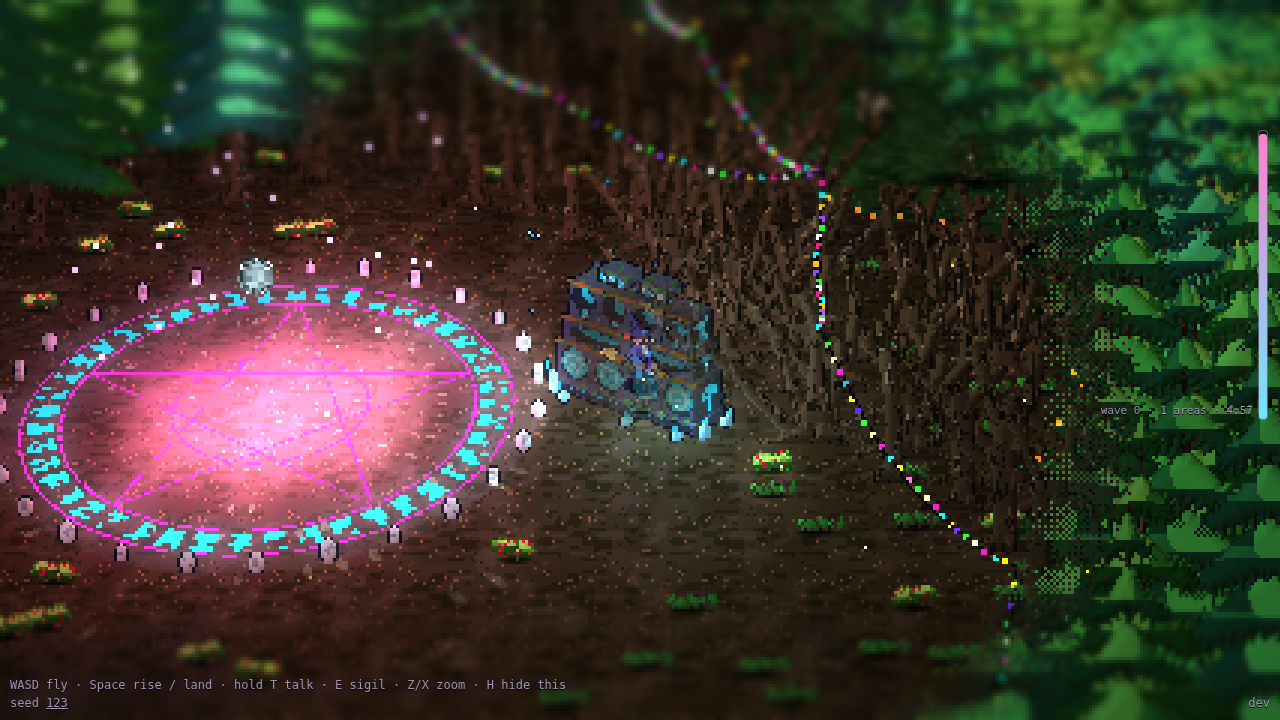
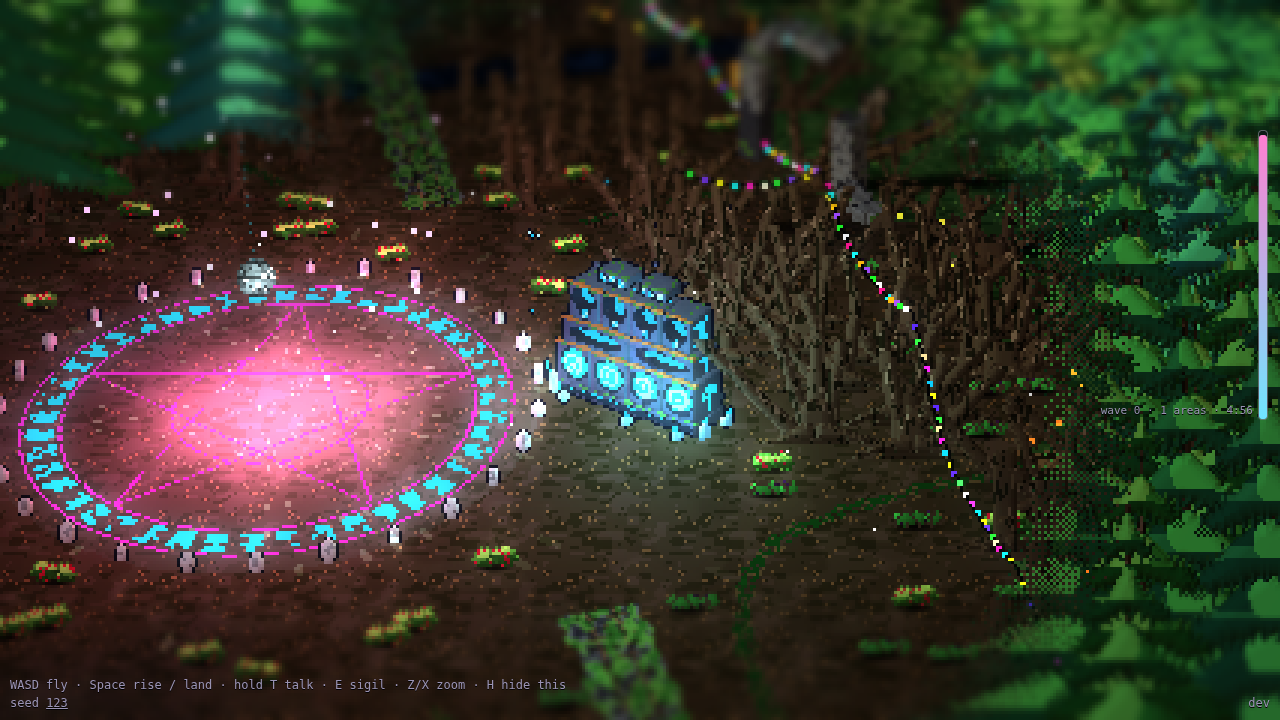
The treehouse by the dancefloor: the game starts with her sitting on its terrace (sit pose) till she moves or rises; its lantern and windows light the clearing; wall objects keep off paths; previews of paths, roads, railways and the treehouse
Claude-Session: https://claude.ai/code/session_01MR6jyHx6mcGYyfzATvhXK3

diff --git a/src/render/view.ts b/src/render/view.ts
@@ -46,6 +46,10 @@ export class View {
   private decorBatches = new Map<string, SpriteBatch>();
   private creatureBatches = new Map<string, SpriteBatch>();
   private witchBatch: SpriteBatch;
+  private treehouseBatch: SpriteBatch;
+  /** 1 while she sits on the treehouse terrace, easing to 0 as she takes off. */
+  private seatK = 1;
+  private seatTime = 0;
   private stoneBatch: SpriteBatch;
   private shadow: THREE.Mesh;
   private mpp: number; // metres per art pixel
@@ -124,6 +128,14 @@ export class View {
     this.witchBatch.mesh.renderOrder = 10;
     this.scene.add(...this.witchBatch.meshes);
     SPRITE_UNIFORMS.uOcc.value.set(O.fadeOpacity, O.edge, O.minHeight, O.on ? 1 : 0);
+    // The treehouse, home: its base and its crown (the crown only from the treetops), its trunk's
+    // foot on its spot. It fades like other tall things when she's behind it.
+    {
+      const T = this.assets.treehouse, f = T.atlas.frames, th = game.map.treehouse, x = th.x - (T.base.x - f[0].w / 2) * this.mpp;
+      this.treehouseBatch = new SpriteBatch(T.atlas, this.mpp, { fade: true });
+      this.treehouseBatch.set([{ x, y: 0, z: th.z, frame: f[0], flip: false }, { x, y: 0, z: th.z, frame: f[1], flip: false, top: true }]);
+      this.scene.add(...this.treehouseBatch.meshes);
+    }
     this.stoneBatch = new SpriteBatch(this.assets.stones, this.mpp, { fade: true });
     this.scene.add(...this.stoneBatch.meshes);
     const d = game.map.dancefloor, stones: SpriteInstance[] = [];
@@ -391,6 +403,7 @@ export class View {
       const b = this.batchFor(this.typeBatches, type, () => { const a = this.assets.typeArt(type); return a && new SpriteBatch(a.atlas, mpp, { scenery: true, fade: true }); });
       b?.set(list);
     }
+    { const th = g.map.treehouse; shadows.push({ x: th.x, z: th.z, w: 7, d: 3.5, scenery: false }); } // soft, under the treehouse
     this.checkPops("placed", !force);
     this.sources = g.forest.lightsNear(g.witch.x, g.witch.z, t.haze.far + margin);
     this.stats.trees = nt; this.stats.bushes = nb;
@@ -560,7 +573,16 @@ export class View {
     }
     this.strings.update();
     this.borders.update();
-    this.setLights([this.dancefloor.update(time, this.ground), ...party.lights, ...this.forestLights], w.x, w.z);
+    // A point on the treehouse's sprite (its pixels) in the world, standing on its spot.
+    const T = this.assets.treehouse, thf = T.atlas.frames[0], th = g.map.treehouse, U2 = SPRITE_UNIFORMS;
+    const onTreehouse = (px: number, py: number) => {
+      const r = U2.uRight.value, u = U2.uUp.value, dx = (px - T.base.x) * this.mpp, dy = (thf.h - py) * this.mpp;
+      return { x: th.x + r.x * dx + u.x * dy, y: r.y * dx + u.y * dy, z: th.z + r.z * dx + u.z * dy };
+    };
+    const thLights: ForestLight[] = T.lights.filter(l => l.kind === "lantern" || l.kind === "window").slice(0, 2).map(l => ({
+      ...onTreehouse(l.x, l.y), reach: t.treehouse.lightReach, rgb: new THREE.Vector3(l.rgb[0] / 255, l.rgb[1] / 255, l.rgb[2] / 255), strength: t.treehouse.lightStrength * (0.92 + 0.08 * Math.sin(time * 3 + l.x)),
+    }));
+    this.setLights([this.dancefloor.update(time, this.ground), ...party.lights, ...thLights, ...this.forestLights], w.x, w.z);
     LIGHT_UNIFORMS.uTime.value = time;
     this.mist?.follow(pose.tx, pose.tz);
     const bob = Math.sin(time * 2.4) * 0.12;
@@ -588,17 +610,29 @@ export class View {
       else wf = pick("stand", Math.floor(time * F.stand.fps) % F.stand[side].length);
     } else if (this.foot > 0.02) wf = this.foot >= prevFoot ? pick("land", Math.floor(this.foot * 3)) : pick("takeoff", Math.floor((1 - this.foot) * 3));
     const footEase = this.foot * this.foot * (3 - 2 * this.foot), wy = (h + bob - 0.4) * (1 - footEase);
-    const wframe = this.assets.witch.frames[wf], hatTop = wy + wframe.h * this.mpp;
-    this.witchBatch.set([{ x: w.x, y: wy, z: w.z, frame: wframe, flip: w.facing < 0 }]);
+    // At the start she sits on the treehouse terrace (the sit pose, swinging her legs), and eases
+    // off it into the air when she first moves.
+    const sdt = Math.min(0.1, Math.max(0, time - this.seatTime));
+    this.seatTime = time;
+    this.seatK = w.seated ? 1 : Math.max(0, this.seatK - sdt / 0.6);
+    let wx = w.x, wz = w.z, wyy = wy;
+    if (this.seatK > 0) {
+      const seat = onTreehouse(T.seat.x, T.seat.y), k = this.seatK * this.seatK * (3 - 2 * this.seatK);
+      const fwd = this.camera.getWorldDirection(this.v3);
+      wx += (seat.x - fwd.x * 0.6 - wx) * k; wyy += (seat.y - fwd.y * 0.6 - wyy) * k; wz += (seat.z - fwd.z * 0.6 - wz) * k;
+      if (w.seated) wf = F.sit.towards[Math.floor(time * F.sit.fps) % F.sit.towards.length];
+    }
+    const wframe = this.assets.witch.frames[wf], hatTop = wyy + wframe.h * this.mpp;
+    this.witchBatch.set([{ x: wx, y: wyy, z: wz, frame: wframe, flip: w.seated ? false : w.facing < 0 }]);
     // Where she is on screen (low-res pixels) and how far from the camera, for the occluder fade.
     {
       const px = (x: number, y: number, z: number) => { const p = this.v3.set(x, y, z).project(this.camera); return [(p.x + 1) / 2 * this.width, (p.y + 1) / 2 * this.height]; };
-      const base = px(w.x, wy, w.z), top = px(w.x, hatTop, w.z), side = px(w.x + wframe.w * this.mpp / 2, wy, w.z);
+      const base = px(wx, wyy, wz), top = px(wx, hatTop, wz), side = px(wx + wframe.w * this.mpp / 2, wyy, wz);
       SPRITE_UNIFORMS.uWitch.value.set((base[0] + top[0]) / 2, (base[1] + top[1]) / 2, Math.abs(side[0] - base[0]) + 1, Math.abs(top[1] - base[1]) / 2 + 1);
-      SPRITE_UNIFORMS.uWitchDepth.value = -this.v3.set(w.x, h, w.z).applyMatrix4(this.camera.matrixWorldInverse).z;
+      SPRITE_UNIFORMS.uWitchDepth.value = -this.v3.set(wx, this.seatK > 0 ? wyy : h, wz).applyMatrix4(this.camera.matrixWorldInverse).z;
     }
-    this.shadow.position.set(w.x, 0.03, w.z);
-    this.shadow.scale.setScalar(1 - 0.5 * canopyShown(w));
+    this.shadow.position.set(wx, 0.03, wz);
+    this.shadow.scale.setScalar((1 - 0.5 * canopyShown(w)) * (1 - this.seatK) + 1e-3); // none while she's up on the terrace
 
     this.refresh();
     this.drawCreatures(time);

diff --git a/src/render/assets.ts b/src/render/assets.ts
@@ -30,6 +30,9 @@ export class AssetLibrary {
   readonly props: Atlas;
   /** Soundsystems: variant x 3 + frame (the cones pumping), playing. */
   readonly soundsystems: Atlas;
+  /** The witch's treehouse: its base (frame 0) and top (frame 1, the crown: treetop mode), and
+   *  anchors in its sprite's pixels: the trunk's foot, her seat on the terrace, its lights. */
+  readonly treehouse: { atlas: Atlas; base: { x: number; y: number }; seat: { x: number; y: number }; lights: { x: number; y: number; rgb: number[]; kind: string }[] };
   /** Style scale: the lab's K, 2 / pixel size. */
   readonly K: number;
   /** Bumped whenever a new set is ready, so the view knows to refresh its batches. */
@@ -46,7 +49,7 @@ export class AssetLibrary {
       ...["rise", "descend"].flatMap(pose => ["towards", "away"].flatMap(facing => [0, 1].map(frame => wb({ pose, frame, facing })))));
     // On foot, from 16: standing, landing, taking off, talking, putting a sigil down, lifting one.
     const FOOT = Art.WITCH_FOOT_POSES as Record<string, { frames: number; fps: number }>;
-    for (const pose of ["stand", "land", "takeoff", "talk", "placeSigil", "liftSigil"]) {
+    for (const pose of ["stand", "land", "takeoff", "talk", "placeSigil", "liftSigil", "sit"]) {
       const n = FOOT[pose].frames, entry = { towards: [] as number[], away: [] as number[], fps: FOOT[pose].fps };
       for (const facing of ["towards", "away"] as const) for (let frame = 0; frame < n; frame++) { entry[facing].push(sprites.length); sprites.push(wb({ pose, frame, facing })); }
       this.witchFoot[pose] = entry;
@@ -58,6 +61,13 @@ export class AssetLibrary {
     const ss: Baked[] = [];
     for (let v = 0; v < 3; v++) for (let f = 0; f < 3; f++) ss.push(Art.bake(Art.soundsystemSprite(style, { variant: v, frame: f, state: "playing" }), Art.soundsystemColours(v), style, style.cOutline) as Baked);
     this.soundsystems = packAtlas(ss, 2048);
+    const th = Art.treehouseSprite(style) as { bot: unknown; top: unknown; anchors: { base: { x: number; y: number }; seat: { x: number; y: number }; lights: { x: number; y: number; rgb: number[]; kind: string }[] } };
+    const thc = Art.treehouseColours(style);
+    // Its model draws a hard dark shadow ellipse on the ground round the trunk's foot: drop it (a
+    // soft contact shadow goes there instead), as Ed asked for set pieces.
+    for (const sp of [th.bot, th.top] as { w: number; h: number; m: Uint8Array }[])
+      for (let y = Math.max(0, Math.floor(th.anchors.base.y - 14)); y < sp.h; y++) for (let x = 0; x < sp.w; x++) if (sp.m[y * sp.w + x] === Art.M.NOSE) sp.m[y * sp.w + x] = 0;
+    this.treehouse = { atlas: packAtlas([th.bot, th.top].map(sp => Art.bake(sp, thc, style, "none") as Baked), 2048), ...th.anchors };
     this.useWorkers = typeof Worker !== "undefined" && typeof OffscreenCanvas !== "undefined";
     if (this.useWorkers) {
       const n = Math.max(1, Math.min(3, (navigator.hardwareConcurrency || 2) - 1));

diff --git a/src/rules/rules.test.ts b/src/rules/rules.test.ts
@@ -166,13 +166,26 @@ describe("the map", () => {
     expect(used.size).toBeGreaterThanOrEqual(25);
   });
 
-  it("puts the dancefloor in the clearing of the middle area, where the witch starts", () => {
+  it("puts the dancefloor in the clearing of the middle area, the treehouse by it, where the witch starts", () => {
     const d = map.dancefloor, a = map.areaAt(d.x, d.z);
     expect(a.cell).toEqual(map.centreCell);
     expect(Math.abs(map.centreCell[0] - 10) + Math.abs(map.centreCell[1] - 10)).toBeLessThanOrEqual(2);
     expect(a.openness).toBeLessThan(0.05);
     expect(map.treeWeight(d.x, d.z)).toBe(0);
-    expect(Math.hypot(map.start.x - d.x, map.start.z - d.z)).toBeLessThan(d.radius);
+    const th = map.treehouse, far = Math.hypot(th.x - d.x, th.z - d.z);
+    expect(far).toBeGreaterThan(d.radius + TUNING.dancefloor.clearing);
+    expect(far).toBeLessThan(d.radius + TUNING.dancefloor.clearing + 20);
+    expect(map.hardClear(th.x, th.z)).toBe(true);
+    expect(Math.hypot(map.start.x - th.x, map.start.z - th.z)).toBeLessThan(3);
+  });
+  it("starts the witch seated on the terrace; she stays put till the first move or rise", () => {
+    const g = newGame(5, TUNING);
+    expect(g.witch.seated).toBe(true);
+    const still = stepWitch(g.witch, NO_INTENT, 1, TUNING, map.bounds);
+    expect(still.seated).toBe(true);
+    const off = stepWitch(g.witch, { ...NO_INTENT, moveX: 1 }, 0.1, TUNING, map.bounds);
+    expect(off.seated).toBeFalsy();
+    expect(off.x).toBeGreaterThan(g.witch.x);
   });
 
   it("reads seeds from the URL: numbers as they are, words hashed", () => {
@@ -830,6 +843,7 @@ describe("paths, roads and railways", () => {
       if (h && h.d > P.lines[h.line].half) edgeN++; else if (!h) openN++;
     }
     expect(edge / edgeN).toBeGreaterThan((open / openN) * 1.5);
+    for (const w of forest.wallsNear(s.x, s.z, 600)) { const h = P.at(w.x, w.z); if (h) expect(h.kind === "rail" && P.railBroken(w.x, w.z)).toBe(true); }
   });
   it("stop at the edge of clearings, so they never run under the dancefloor or a set piece", () => {
     const d = map.dancefloor, clear = d.radius + TUNING.dancefloor.clearing;

diff --git a/src/rules/map.ts b/src/rules/map.ts
@@ -57,7 +57,9 @@ export interface ForestMap {
   /** The middle area, whose clearing holds the dancefloor. */
   readonly centreCell: Cell;
   readonly dancefloor: { x: number; z: number; radius: number };
-  /** Where the witch starts: the dancefloor. */
+  /** The witch's treehouse: its trunk's foot, just beyond the dancefloor's clearing. */
+  readonly treehouse: { x: number; z: number };
+  /** Where the witch starts: at the treehouse (sitting on its terrace). */
   readonly start: { x: number; z: number };
   /** Where the witch may fly (metres). */
   readonly bounds: { minX: number; maxX: number; minZ: number; maxZ: number };
@@ -175,8 +177,11 @@ export function generateMap(seed: number, tuning: Tuning): ForestMap {
   };
   // The dancefloor keeps a clearing of its own, however close a neighbouring area's centre.
   const floorR = tuning.dancefloor.radius, floorClear = floorR + tuning.dancefloor.clearing;
+  const TH = tuning.treehouse, ta = (TH.angle * Math.PI) / 180;
+  const treehouse = { x: centre.x + Math.cos(ta) * (floorClear + TH.distance), z: centre.z + Math.sin(ta) * (floorClear + TH.distance) };
   const hardCell = (x: number, z: number, cell: Cell) => {
     if (Math.hypot(x - centre.x, z - centre.z) < floorClear) return true;
+    if (Math.hypot(x - treehouse.x, z - treehouse.z) < TH.clear) return true;
     // A set piece keeps a clearing round it, sized with it.
     if (!setPieceOf(cell[0], cell[1])) return false;
     const p = siteOf(cell[0], cell[1]);
@@ -196,7 +201,8 @@ export function generateMap(seed: number, tuning: Tuning): ForestMap {
   const map = {
     seed, tuning, n, margin, areaSize: A, partition, centreCell,
     dancefloor: { x: centre.x, z: centre.z, radius: floorR },
-    start: { x: centre.x, z: centre.z + 2 },
+    treehouse,
+    start: { x: treehouse.x, z: treehouse.z + 1 },
     bounds: { minX: pad, maxX: n * A - pad, minZ: pad, maxZ: n * A - pad },
     extent: { minX: lo * A, maxX: hi * A, minZ: lo * A, maxZ: hi * A },
     typeOf, areaAt, siteOf, treeWeight, hardClear, neighbours, setPieceOf, remoteness,

diff --git a/src/rules/forest.ts b/src/rules/forest.ts
@@ -112,6 +112,7 @@ function bushesInChunk(map: ForestMap, ci: number, cj: number): Plant[] {
     const type = plantType(map, x, z, i, j, s + 206), sparse = 1 - Math.min(1, treeChance(map, x, z, type) / 0.8);
     if (hash2(i, j, s + 203) > (0.15 + 0.85 * sparse) * AREA_TYPES[type].layout.undergrowth * map.tuning.bushDensity * clump * along) continue;
     if (Math.hypot(x - map.dancefloor.x, z - map.dancefloor.z) < map.dancefloor.radius + 2) continue; // the dancefloor stays clear
+    if (Math.hypot(x - map.treehouse.x, z - map.treehouse.z) < map.tuning.treehouse.clear) continue; // and the treehouse's foot
     out.push({ x, z, type, variant: Math.floor(hash2(i, j, s + 204) * BUSH_VARIANTS), flip: hash2(i, j, s + 205) < 0.5 });
   }
   return out;
@@ -126,7 +127,7 @@ function wallsInChunk(map: ForestMap, ci: number, cj: number): Plant[] {
   for (let j = j0; j < j1; j++) for (let i = i0; i < i1; i++) {
     if (hash2(i, j, s + 303) > map.tuning.wallDensity) continue;
     const x = (i + (hash2(i, j, s + 301) - 0.5) * 0.6) * sp, z = (j + (hash2(i, j, s + 302) - 0.5) * 0.6) * sp, a = map.areaAt(x, z);
-    if (a.openness < 0.82 || !AREA_TYPES[a.type].hasWalls) continue;
+    if (a.openness < 0.82 || !AREA_TYPES[a.type].hasWalls || map.paths.clearance(x, z).bushes === 0) continue; // not across a path
     if (Math.hypot(x - map.dancefloor.x, z - map.dancefloor.z) < map.dancefloor.radius + 4) continue;
     out.push({ x, z, type: a.type, variant: Math.floor(hash2(i, j, s + 304) * 4), flip: hash2(i, j, s + 305) < 0.5 });
   }

diff --git a/src/rules/witch.ts b/src/rules/witch.ts
@@ -20,6 +20,8 @@ export interface WitchState {
   away: boolean;
   /** Leaning into fast flight: above leanAt of the mode's top speed. */
   lean: boolean;
+  /** Sitting on the treehouse terrace (the start), until the first move or rise. */
+  seated?: boolean;
 }
 
 /** What the player asks for this frame: a direction (length up to 1) and button presses. */
@@ -52,6 +54,10 @@ export const witchMaxSpeed = (w: WitchState, t: Tuning) => lerp(t.groundSpeed, t
 export const canopyShown = (w: WitchState) => smoothstep(w.lift);
 
 export function stepWitch(w: WitchState, intent: Intent, dt: number, t: Tuning, bounds: { minX: number; maxX: number; minZ: number; maxZ: number }): WitchState {
+  if (w.seated) {
+    if (!intent.toggleMode && Math.hypot(intent.moveX, intent.moveZ) < 0.1) return w;
+    w = { ...w, seated: false };
+  }
   let { mode, lift } = w;
   if (intent.toggleMode) mode = mode === "ground" || mode === "descending" ? "rising" : "descending";
   if (mode === "rising") { lift += dt / Math.max(1e-3, t.riseTime); if (lift >= 1) { lift = 1; mode = "treetop"; } }

diff --git a/src/rules/tuning.ts b/src/rules/tuning.ts
@@ -77,6 +77,7 @@ export interface Tuning {
   /** How mist, far haze and canopy dapple are drawn: smooth gradients, or dithered pixel steps. */
   fx: "smooth" | "pixel";
   moonbeams: number;
+  treehouse: { distance: number; angle: number; clear: number; lightReach: number; lightStrength: number };
   decor: { spacing: number; ruins: number; rocks: number; freak: number; clearing: number; pathGap: number };
   paths: { rails: number[]; roads: number[]; linkChance: number; deadEndChance: number; pathHalf: number; roadHalf: number; railHalf: number; railBroken: number; streams: number[]; streamHalf: number; treesOnBroken: number; edgeBushes: number; bushBoost: number };
   lights: { campfire: { reach: number; strength: number }; stone: { reach: number; strength: number } };

diff --git a/src/rules/game.ts b/src/rules/game.ts
@@ -32,7 +32,7 @@ export interface Controls extends Intent, Partial<LeashControls> {
 
 export function newGame(seed: number, tuning: Tuning): Game {
   const map = generateMap(seed, tuning);
-  const witch = newWitch(map.start.x, map.start.z);
+  const witch = { ...newWitch(map.start.x, map.start.z), seated: true };
   return {
     seed, tuning, map, forest: new Forest(map), creatures: spawnCreatures(map), clock: newClock(),
     witch, camera: newCamera(tuning, witch.x, witchHeight(witch, tuning), witch.z), party: newParty(map), leash: newLeash(),

diff --git a/CLAUDE.md b/CLAUDE.md
@@ -61,3 +61,6 @@ Literal, stable names for the parts of the game, as Ed and the builders agree th
 - **Sigil stack**: the sigils of the creatures leashed to the witch, floating above her head, newest at the bottom. The Sigil button (E; gamepad X; touch "sigil") puts the bottom one down as a rune on the ground (a **leash point**) or picks a placed one back up.
 - **Party animal**: an invited creature, in party gear, dancing on the beat (`beat.bpm`).
 - **Partified border**: the sparkling line round the outside of the partified region, in each area's sigil colour.
+- **Path network**: the paths, roads, railways and streams (`src/rules/paths.ts`, on the map as `map.paths`): seeded spline lines with tree-free corridors and bushes thick along their edges, drawn as ground ribbons with the art's strips (`src/render/paths.ts`). A path's kind follows the area it crosses; broken railway lets trees grow between the sleepers.
+- **Decor**: ruins, rocks and freak trees (`art/decor.js`) scattered sparsely as scenery (`Forest.decorNear`), never on a path, in an area's central clearing or by the dancefloor.
+- **Treehouse**: the witch's home just beyond the dancefloor's clearing (`map.treehouse`); the game starts with her seated on its terrace (`witch.seated`), and the first move or rise takes her off.
